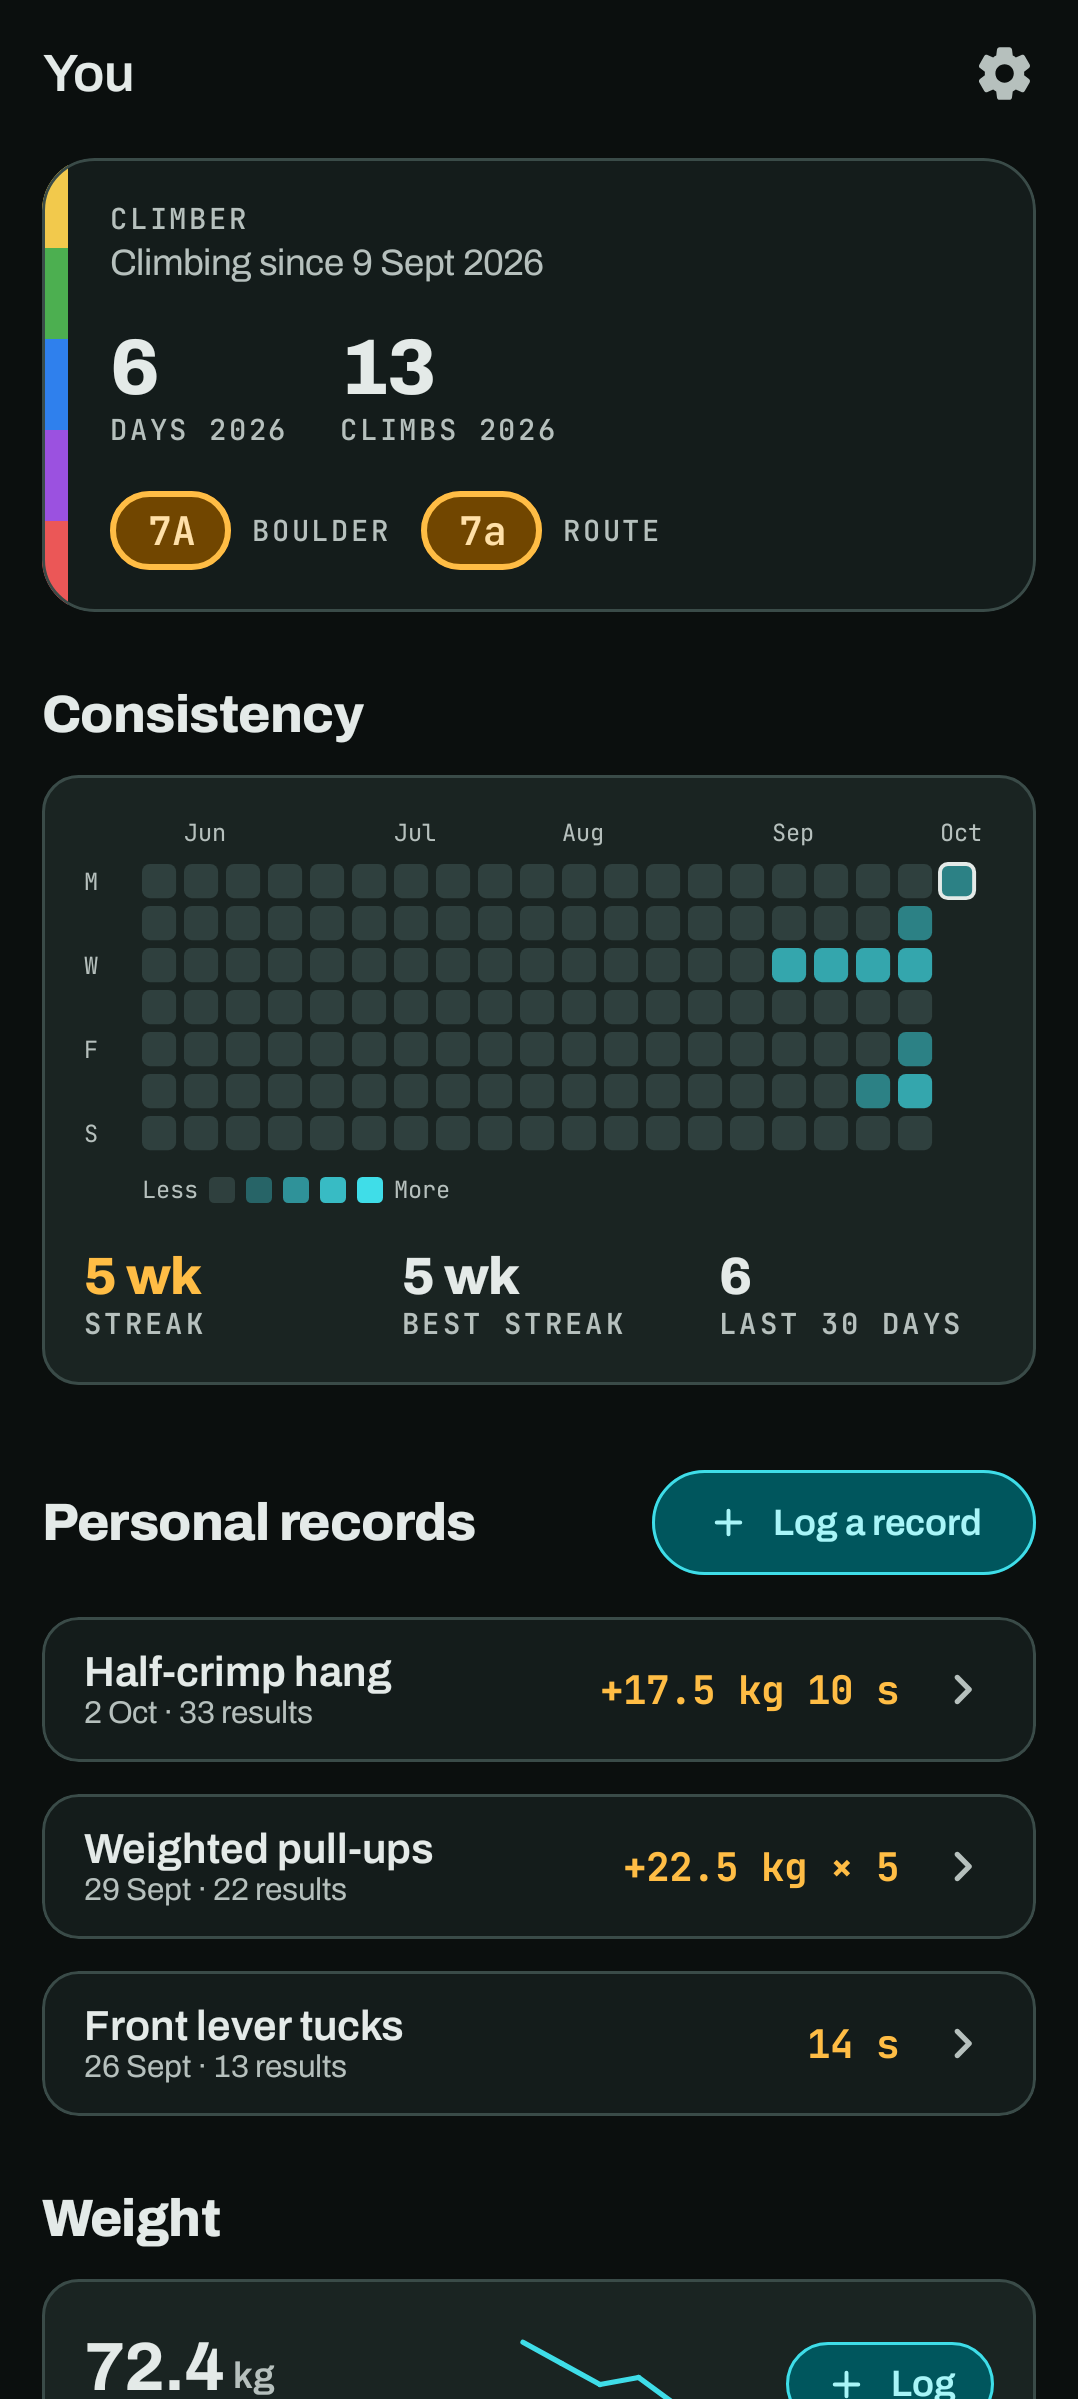
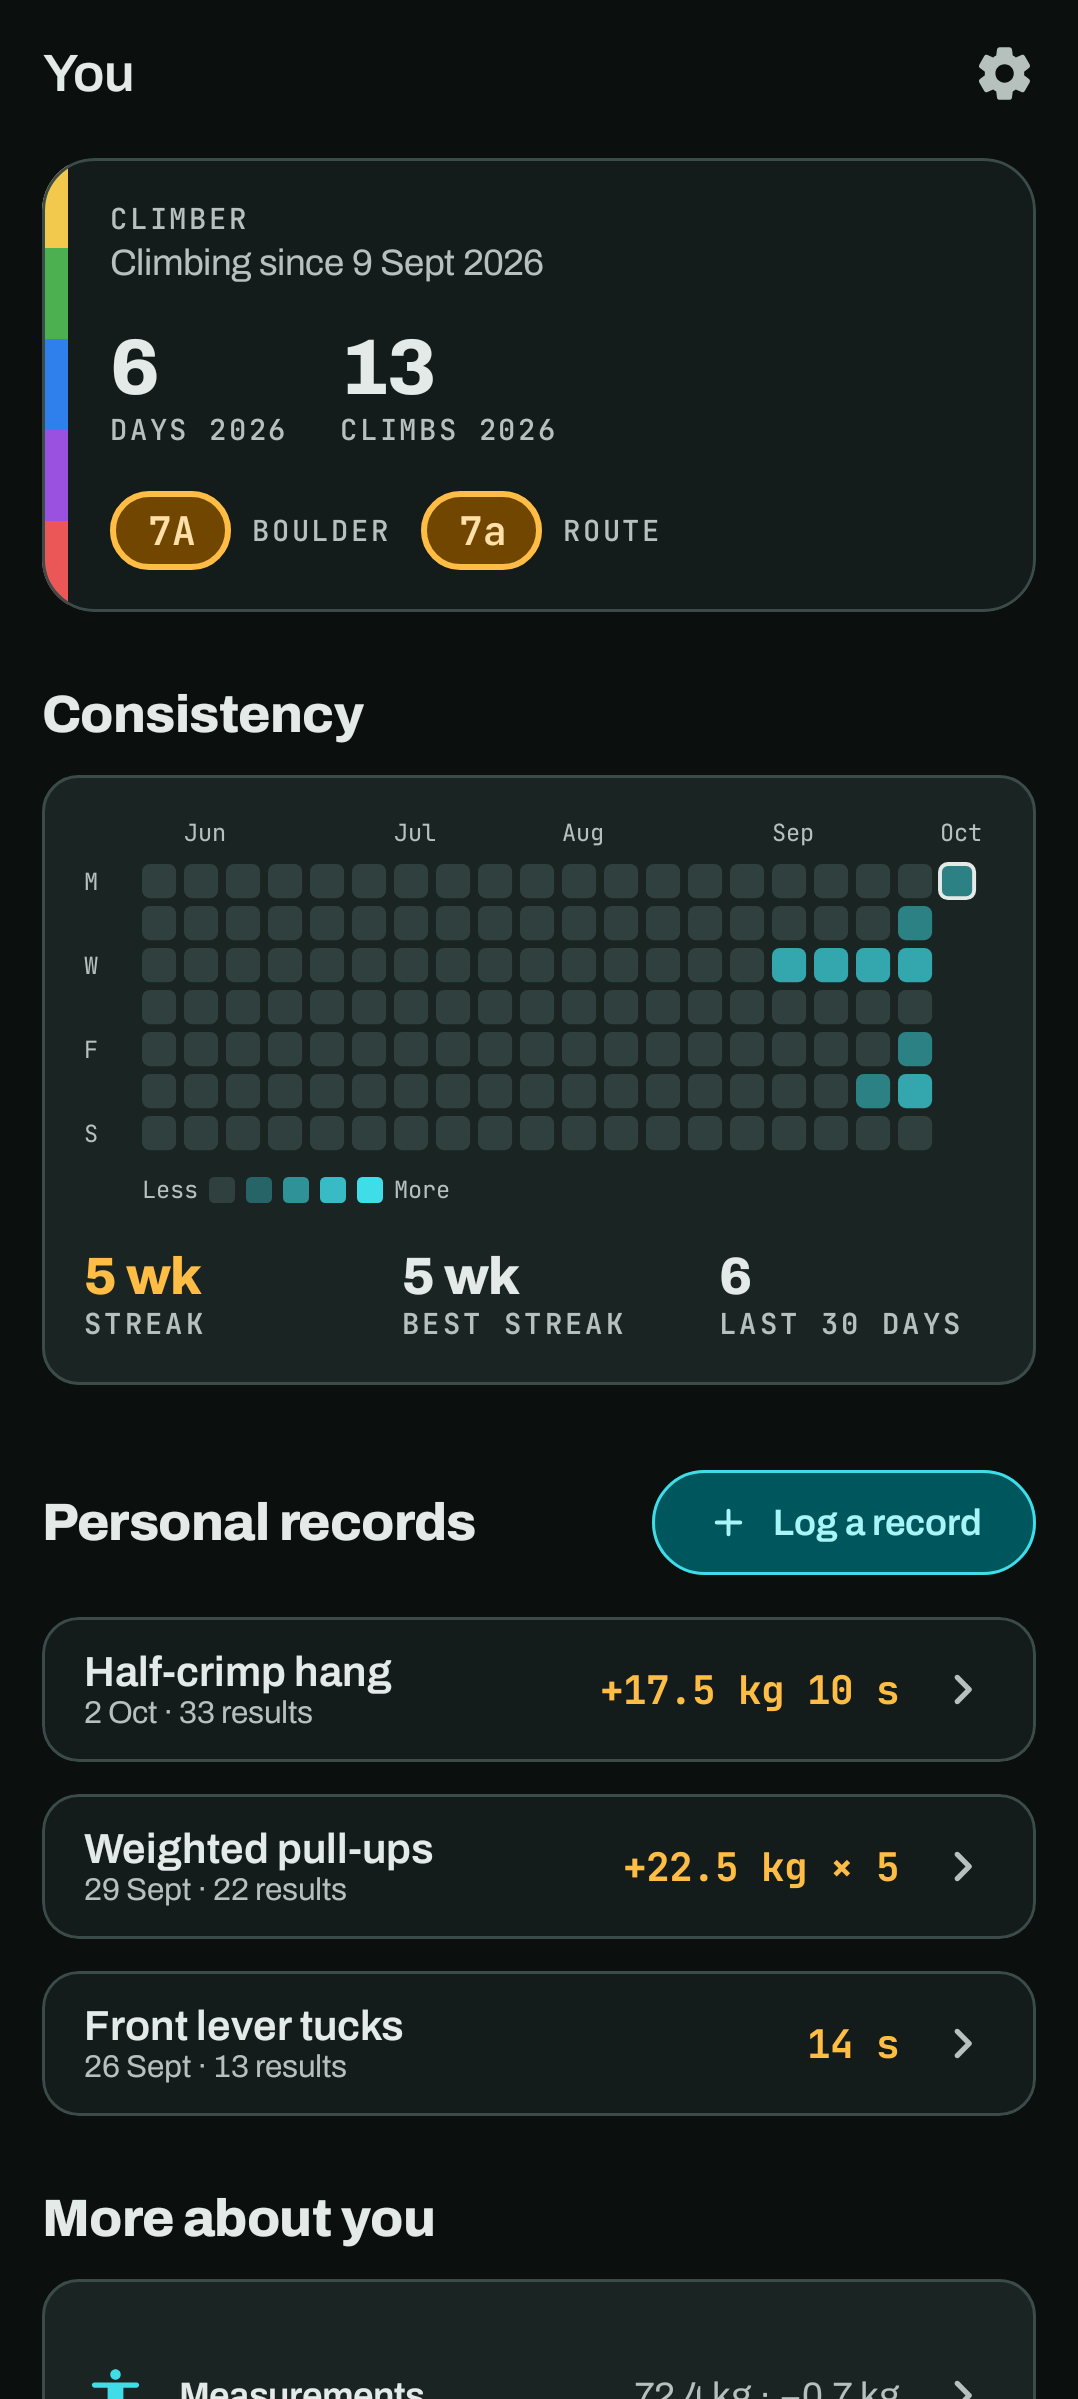
You: weight lives on Measurements, whose menu row shows it

Changed region(s): [[0.0918, 0.8945, 0.398, 1.0], [0.5204, 0.9562, 0.949, 1.0], [0.0306, 0.8945, 0.0918, 0.9254]]

diff --git a/app/src/main/java/com/hardtekpt/crux/ui/you/YouScreen.kt b/app/src/main/java/com/hardtekpt/crux/ui/you/YouScreen.kt
@@ -258,7 +258,6 @@ fun parseMeasurement(type: MeasurementType, text: String): Result<Double> {
 
 /** Where the profile's taps lead. */
 data class ProfileActions(
-    val logWeight: () -> Unit = {},
     val openSettings: () -> Unit = {},
     val logRecord: () -> Unit = {},
     val openRecords: (Long) -> Unit = {},
@@ -349,15 +348,12 @@ fun YouContent(uiState: YouUiState, actions: ProfileActions, modifier: Modifier 
                 RecordRow(best, onClick = { actions.openRecords(best.exercise.id) })
             }
 
-            // ---- Weight
-            item(key = "weight_header") { ProfileSectionHeader("Weight") }
-            item(key = "weight") { WeightTracker(uiState, onLog = actions.logWeight) }
-
             // ---- The pages behind the profile
             item(key = "menu_header") { ProfileSectionHeader("More about you") }
             item(key = "menu") {
                 val ape = uiState.apeIndex
-                val height = uiState.latest[MeasurementType.HEIGHT]
+                val weight = uiState.summary?.latest
+                val change = uiState.summary?.change
                 val girths = MeasurementType.circumferences.count { it in uiState.latest }
                 CruxCard(fill = CruxCardFill.Low, modifier = Modifier.testTag("profile_menu")) {
                     Column(Modifier.padding(vertical = space.s1).fillMaxWidth()) {
@@ -365,14 +361,9 @@ fun YouContent(uiState: YouUiState, actions: ProfileActions, modifier: Modifier 
                             Icons.Rounded.Accessibility,
                             "Measurements",
                             when {
-                                height != null && ape != null -> "${units.measurement(
-                                    MeasurementType.HEIGHT,
-                                    height.value,
-                                )} · ape ${units.lengthDifference(ape.differenceCm)}"
-
-                                height != null -> units.measurement(MeasurementType.HEIGHT, height.value).toString()
-
-                                else -> "Height, reach, body fat"
+                                weight != null && change != null -> "${units.weight(weight.value).value} ${units.weightUnit()} · ${units.weightChange(change)}"
+                                weight != null -> "${units.weight(weight.value).value} ${units.weightUnit()}"
+                                else -> "Weight, height, body fat"
                             },
                             actions.openMeasurements,
                             Modifier.testTag("menu_measurements"),
@@ -442,74 +433,6 @@ fun YouContent(uiState: YouUiState, actions: ProfileActions, modifier: Modifier 
                 }
             }
         }
-    }
-}
-
-/**
- * The latest weigh-in, how it moved, and a small line of recent weigh-ins, with a Log button.
- * The full chart and history live on Measurements.
- */
-@Composable
-private fun WeightTracker(uiState: YouUiState, onLog: () -> Unit) {
-    val units = LocalUnits.current
-    val colors = MaterialTheme.colorScheme
-    val summary = uiState.summary
-    CruxCard(fill = CruxCardFill.Low, modifier = Modifier.testTag("weight_tracker")) {
-        Row(verticalAlignment = Alignment.CenterVertically, horizontalArrangement = Arrangement.spacedBy(CruxTheme.space.s3)) {
-            Column(Modifier.weight(1f)) {
-                Row(verticalAlignment = Alignment.Bottom) {
-                    Text(
-                        summary?.latest?.value?.let { units.weight(it).value } ?: "–",
-                        style = CruxTheme.type.metricMedium,
-                        modifier = Modifier.testTag("you_weight"),
-                    )
-                    if (summary != null) {
-                        Text(
-                            " ${units.weightUnit()}",
-                            style = MaterialTheme.typography.titleSmall,
-                            color = colors.onSurfaceVariant,
-                            modifier = Modifier.padding(bottom = 3.dp),
-                        )
-                    }
-                }
-                Text(
-                    when {
-                        summary == null -> "No weigh-ins yet"
-                        summary.change != null -> "${units.weightChange(summary.change)} · ${summary.window}"
-                        else -> "Weighed ${summary.latest.date.shortLabel()}"
-                    },
-                    style = MaterialTheme.typography.bodySmall,
-                    color = colors.onSurfaceVariant,
-                )
-            }
-            val recent = uiState.weights.take(12).reversed()
-            if (recent.size >= 2) WeightSparkline(recent.map { it.value }, Modifier.size(width = 88.dp, height = 36.dp))
-            CruxButton(
-                text = "Log",
-                onClick = onLog,
-                variant = CruxButtonVariant.Tonal,
-                icon = Icons.Rounded.Add,
-                size = CruxButtonSize.Small,
-                modifier = Modifier.testTag("log_weight"),
-            )
-        }
-    }
-}
-
-/** Recent weigh-ins as a bare line, the latest one dotted. */
-@Composable
-private fun WeightSparkline(values: List<Double>, modifier: Modifier = Modifier) {
-    val line = MaterialTheme.colorScheme.primary
-    androidx.compose.foundation.Canvas(modifier) {
-        val low = values.min()
-        val high = values.max()
-        val span = (high - low).takeIf { it > 0 } ?: 1.0
-        val stepX = size.width / (values.size - 1)
-        val points = values.mapIndexed { i, v ->
-            androidx.compose.ui.geometry.Offset(i * stepX, (size.height - 4.dp.toPx()) * (1 - ((v - low) / span).toFloat()) + 2.dp.toPx())
-        }
-        points.zipWithNext { a, b -> drawLine(line, a, b, strokeWidth = 2.dp.toPx(), cap = androidx.compose.ui.graphics.StrokeCap.Round) }
-        drawCircle(line, radius = 3.5.dp.toPx(), center = points.last())
     }
 }
 

diff --git a/app/src/androidTest/java/com/hardtekpt/crux/MainActivityTest.kt b/app/src/androidTest/java/com/hardtekpt/crux/MainActivityTest.kt
@@ -96,24 +96,16 @@ class MainActivityTest {
     @Test
     fun loggingAWeightUpdatesYou() {
         composeRule.onNodeWithTag("nav_You").performClick()
-        // Measurements sit below the climber card, consistency and records on the profile.
-        // Scrolling only until the tile shows can leave it under the floating nav bar, where a
-        // touch would land on the bar, so trigger the tile's click action directly.
-        composeRule.onNodeWithTag("you_list").performScrollToNode(hasTestTag("log_weight"))
-        composeRule.onNodeWithTag("log_weight").performSemanticsAction(SemanticsActions.OnClick)
+        // Weight lives on Measurements, behind the profile menu.
+        openFromProfileMenu("menu_measurements", "screen_Measurements")
+        composeRule.onNodeWithTag("measurements_log_weight").performClick()
         composeRule.waitForTag("screen_LogWeight")
         composeRule.onNodeWithTag("ruler_weight_value").performClick()
         composeRule.textFieldIn("field_type_value").performTextReplacement("72.5")
         composeRule.onNodeWithTag("confirm_type_value").performClick()
         composeRule.onNodeWithTag("save_weight").performClick()
 
-        composeRule.waitForTag("screen_You")
-        composeRule.onNodeWithTag("you_list").performScrollToNode(hasTestTag("log_weight"))
-        composeRule.waitUntil(5_000) {
-            runCatching { composeRule.onNodeWithTag("you_weight", useUnmergedTree = true).assertTextEquals("72.5") }.isSuccess
-        }
-        // The full history is on Measurements.
-        openFromProfileMenu("menu_measurements", "screen_Measurements")
+        composeRule.waitForTag("screen_Measurements")
         composeRule.onNodeWithTag("measurements_list").performScrollToNode(hasTestTag("weight_row"))
         assertEquals(1, composeRule.onAllNodesWithTag("weight_row").fetchSemanticsNodes().size)
     }

diff --git a/app/src/main/java/com/hardtekpt/crux/ui/you/ProfilePages.kt b/app/src/main/java/com/hardtekpt/crux/ui/you/ProfilePages.kt
@@ -166,7 +166,14 @@ private fun WeightCard(uiState: YouUiState, onLogWeight: () -> Unit) {
     CruxCard(fill = CruxCardFill.Default, modifier = Modifier.testTag("weight_card")) {
         Row(verticalAlignment = Alignment.CenterVertically) {
             Eyebrow("Weight", Modifier.weight(1f))
-            CruxButton("Log", onLogWeight, variant = CruxButtonVariant.Tonal, size = CruxButtonSize.Small, icon = Icons.Rounded.Add)
+            CruxButton(
+                "Log",
+                onLogWeight,
+                variant = CruxButtonVariant.Tonal,
+                size = CruxButtonSize.Small,
+                icon = Icons.Rounded.Add,
+                modifier = Modifier.testTag("measurements_log_weight"),
+            )
         }
         Row(verticalAlignment = Alignment.Bottom) {
             Text(summary?.latest?.value?.let { units.weight(it).value } ?: "–", style = CruxTheme.type.metricLarge)

diff --git a/app/src/main/java/com/hardtekpt/crux/ui/CruxApp.kt b/app/src/main/java/com/hardtekpt/crux/ui/CruxApp.kt
@@ -310,7 +310,6 @@ fun CruxApp(openRequest: com.hardtekpt.crux.OpenRequest? = null, onOpened: () ->
                     page<YouRoute> {
                         YouScreen(
                             actions = ProfileActions(
-                                logWeight = { navController.navigate(LogWeightRoute) },
                                 openSettings = { navController.navigate(SettingsRoute) },
                                 logRecord = { navController.navigate(RecordEditorRoute()) },
                                 openRecords = { navController.navigate(ExerciseRecordsRoute(it)) },

diff --git a/CHANGELOG.md b/CHANGELOG.md
@@ -31,6 +31,7 @@ and versions follow [Semantic Versioning](https://semver.org/). Each release als
 
 ### Changed
 
+- **Weight only on Measurements**: the weight card is gone from the You page, since it is on Measurements. The Measurements row in More about you now shows your latest weight and how it moved.
 - **New name and icon**: the app is now **Climb Logger**, with a new icon of a mountain and a rising progress line (it has a themed version for Android 13+). The package is the same, so it installs over the old app and your data is untouched.
 - **Choose a climb in Log climb**: the climb chips under Name are gone. A **Choose a climb** button opens a sheet
   with your open projects (tried, not sent yet) and a chip per playlist. Typing a climb's exact name still

diff --git a/docs/user/getting-started.md b/docs/user/getting-started.md
@@ -61,7 +61,7 @@ The floating bar at the bottom has five tabs and the **+** Log button:
 | **Train** | Your exercise library and session plans | [Training](training.md) |
 | **Journal** | One timeline of climbs, sessions, training results and notes | [Journal](journal.md) |
 | **Progress** | Hardest sends per grade scale, grade pyramids, charts, open projects | [Progress](progress.md) |
-| **You** | Climber card, consistency, personal records, weight, measurements, notes, places, grade converter, interval timer, settings | [You](you.md) |
+| **You** | Climber card, consistency, personal records, measurements (with weight), notes, places, grade converter, interval timer, settings | [You](you.md) |
 
 The **+** Log menu has four entries:
 

diff --git a/docs/user/you.md b/docs/user/you.md
@@ -28,8 +28,8 @@ They're changed in their session, not here.
 
 ## Weight
 
-Your latest weigh-in, a sparkline of the trend, and **Log** for a new one (also in the **+**
-menu). The ruler and the day strip sit at the bottom of the Log weight page, within reach of your thumb.
+Weight lives under **More about you → Measurements**, whose row shows your latest weigh-in and how it
+moved. There you see the chart and history, and **Log** adds a new one (also in the **+** menu). The ruler and the day strip sit at the bottom of the Log weight page, within reach of your thumb.
 Weight is stored in kilograms and shown in pounds under Imperial.
 
 ## More about you
